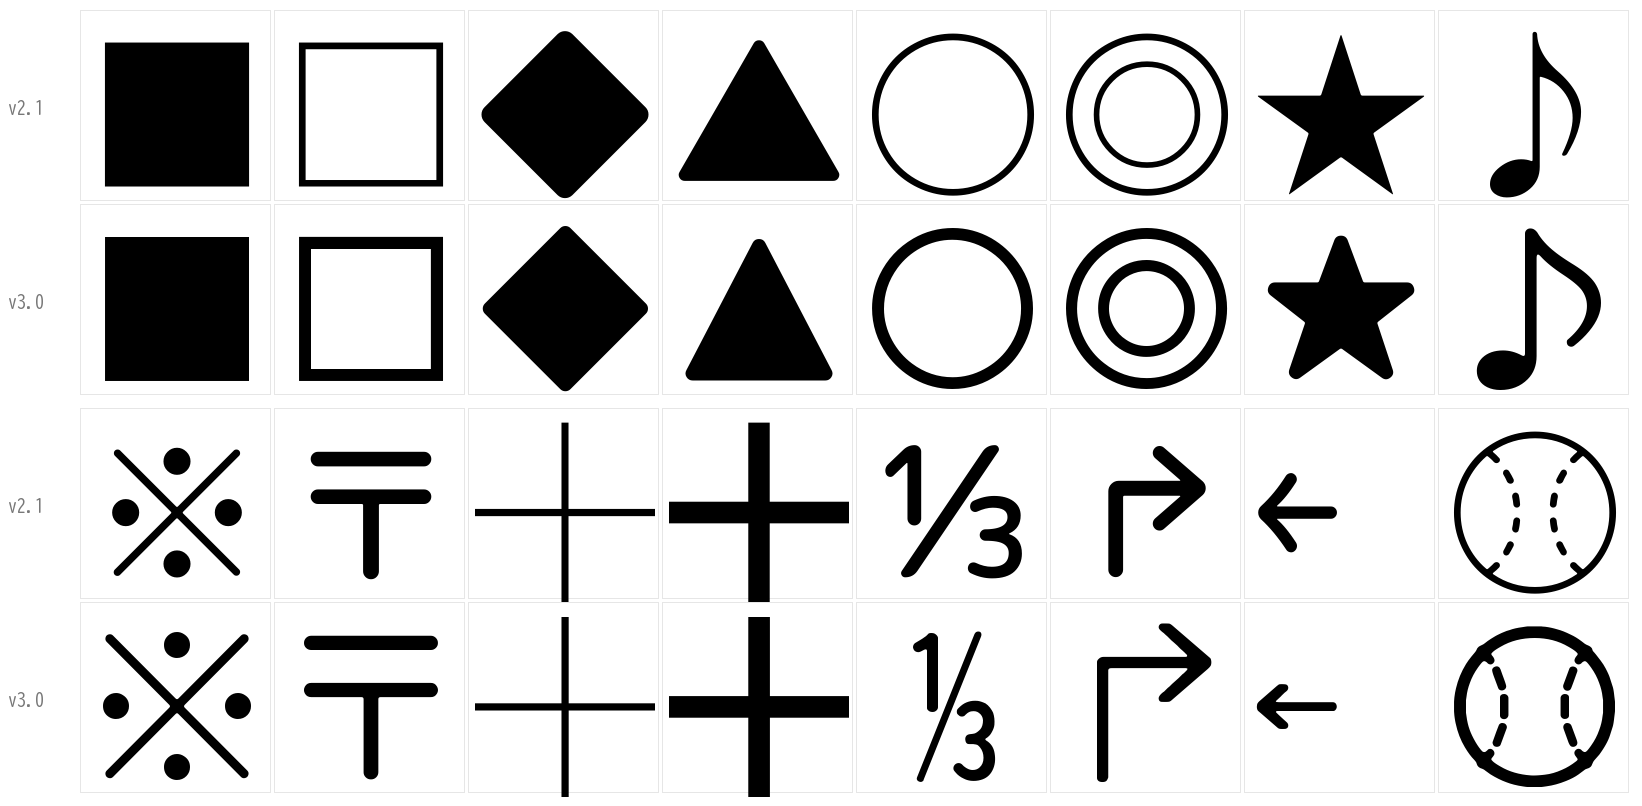
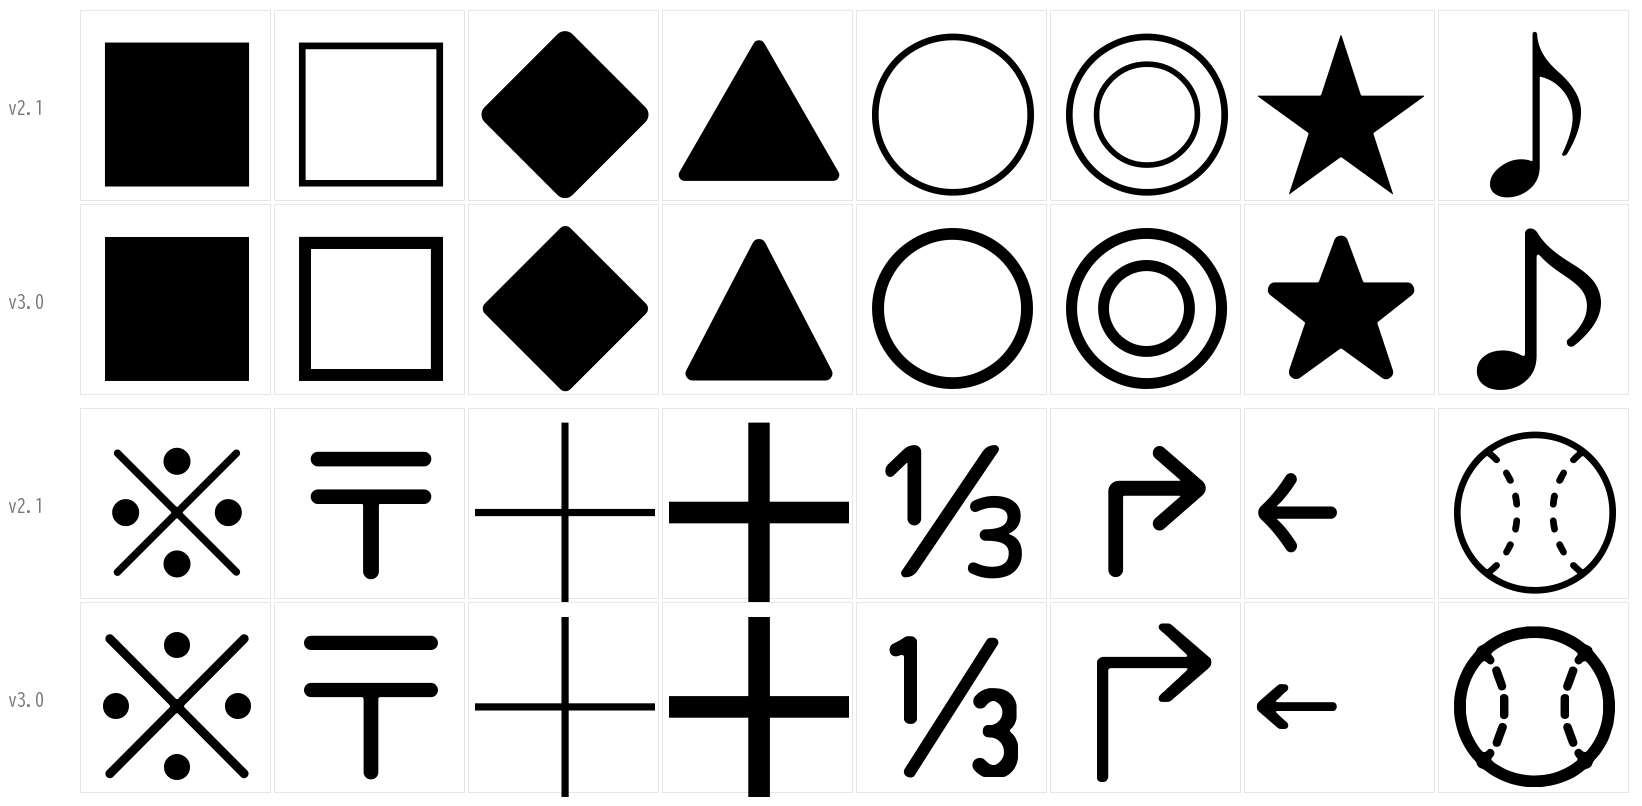
半角から全角にする字を v2.x と同じ大きさ・太さにそろえる
分数は BIZ の数字と斜線を全角の大きさに組み、線の太さを戻してから丸める。
記号は v2.x の墨の枠に合わせて広げ、元の線の太さ (s) から太さを補う。⊕⊖⊗∅ は輪と線で、↗ は → を 45° 回して組む。
parts.txt に s (元の線の太さ)・r (回す角度) を足し、48 字の見本 docs/v3/zoom-width.png を足す。

Claude-Session: https://claude.ai/code/session_01TG5bWNd7UBYqDbKKDsecbS

Changed region(s): [[0.528, 0.7754, 0.6212, 0.9615]]

diff --git a/tools/src/make.rs b/tools/src/make.rs
@@ -136,6 +136,8 @@ fn expand(parts: &[Part], base: &Base) -> Result<Vec<Part>> {
                     crop: Some(vec![(b.0, TEXT_BAND.0), (b.2, TEXT_BAND.0), (b.2, TEXT_BAND.1), (b.0, TEXT_BAND.1)]),
                     place: Place::Stretch(x, yb, x + (b.2 - b.0) * s, yb + band * s),
                     weight: p.weight,
+                    stem: p.stem,
+                    rotate: 0.0,
                 });
             }
             x += (width(b) + TEXT_GAP) * s;
@@ -178,11 +180,17 @@ pub fn compose(parts: &[Part], base: &Base) -> Result<(Grid, Vec<bool>)> {
             Place::Shift(dx, dy) => (1.0, 1.0, dx, dy),
             Place::CenterX(x) => (1.0, 1.0, x - (r.0 + r.2) / 2.0, 0.0),
         };
-        let tf = |q: &(f64, f64)| (q.0 * sx + tx, q.1 * sy + ty);
+        // 回すときの中心は、置いた墨 (切り抜き) の枠の真ん中
+        let (cx, cy) = ((r.0 + r.2) / 2.0 * sx + tx, (r.1 + r.3) / 2.0 * sy + ty);
+        let (sn, cs) = p.rotate.to_radians().sin_cos();
+        let tf = |q: &(f64, f64)| {
+            let (x, y) = (q.0 * sx + tx - cx, q.1 * sy + ty - cy);
+            (cx + x * cs - y * sn, cy + x * sn + y * cs)
+        };
         let polys: Vec<Poly> = polys.iter().map(|c| c.iter().map(tf).collect()).collect();
         let crop: Option<Poly> = p.crop.as_ref().map(|c| c.iter().map(tf).collect());
         // 縮めた (伸ばした) 線を w の太さに戻す。図形 (輪・枠) は置いた大きさで描くので戻さない
-        let comp = |s: f64| if p.weight > 0.0 && matches!(p.src, Source::Char(_)) && (s - 1.0).abs() > 1e-6 { (p.weight - STEM * s) / 2.0 } else { 0.0 };
+        let comp = |s: f64| if p.weight > 0.0 && matches!(p.src, Source::Char(_)) && (s - 1.0).abs() > 1e-6 { (p.weight - p.stem * s) / 2.0 } else { 0.0 };
         let grow = (comp(sx.abs()), comp(sy.abs()));
         let b = match &crop {
             Some(c) => bbox(std::slice::from_ref(c)).unwrap(),
@@ -240,6 +248,8 @@ pub fn compose_text(text: &str) -> Vec<Part> {
             crop: Some(vec![(0.0, y0), (512.0, y0), (512.0, y1), (0.0, y1)]),
             place: Place::Stretch(x, 280.0 + (y0 - 280.0) * SY, x + 512.0 * SX, 280.0 + (y1 - 280.0) * SY),
             weight: 50.0,
+            stem: STEM,
+            rotate: 0.0,
         });
         x += 512.0 * SX;
     }

diff --git a/tools/src/parts.rs b/tools/src/parts.rs
@@ -49,6 +49,10 @@ pub struct Part {
     pub place: Place,
     /// 縮めた線を戻す太さ (0 なら戻さない)
     pub weight: f64,
+    /// 元の字の線の太さ (縮めた量を測る元。既定は STEM)
+    pub stem: f64,
+    /// 置いたあと、枠の真ん中を中心に回す角度 (度、反時計回り)
+    pub rotate: f64,
 }
 
 #[derive(Clone, Debug)]
@@ -137,6 +141,8 @@ fn part(text: &str) -> Result<Part> {
     // 置き方
     let mut place = Place::Keep;
     let mut weight = STEM;
+    let mut stem = STEM;
+    let mut rotate = 0.0;
     for tok in tokens(s) {
         if let Some(r) = tok.strip_prefix('>') {
             let v = nums(r)?;
@@ -158,13 +164,17 @@ fn part(text: &str) -> Result<Part> {
             place = Place::Shift(v[0], v[1]);
         } else if let Some(r) = tok.strip_prefix("cx") {
             place = Place::CenterX(r.parse().ctx(|| format!("cx が読めません: {text}"))?);
+        } else if let Some(r) = tok.strip_prefix('r').filter(|r| r.starts_with(|c: char| c.is_ascii_digit() || c == '-')) {
+            rotate = r.parse().ctx(|| format!("r が読めません: {text}"))?;
+        } else if let Some(r) = tok.strip_prefix('s').filter(|r| r.starts_with(|c: char| c.is_ascii_digit())) {
+            stem = r.parse().ctx(|| format!("s が読めません: {text}"))?;
         } else if let Some(r) = tok.strip_prefix('w') {
             weight = r.parse().ctx(|| format!("w が読めません: {text}"))?;
         } else {
             bail!("読めない字句 {tok:?}: {text}");
         }
     }
-    Ok(Part { sub, src, pick, crop, place, weight })
+    Ok(Part { sub, src, pick, crop, place, weight, stem, rotate })
 }
 
 /// 置き方の字句 (> と ~ のあとの数は空白を挟んでもよい)
